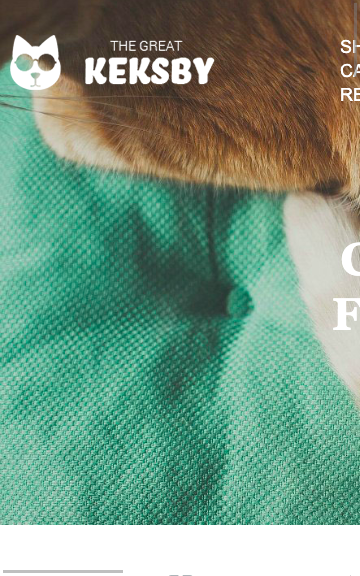
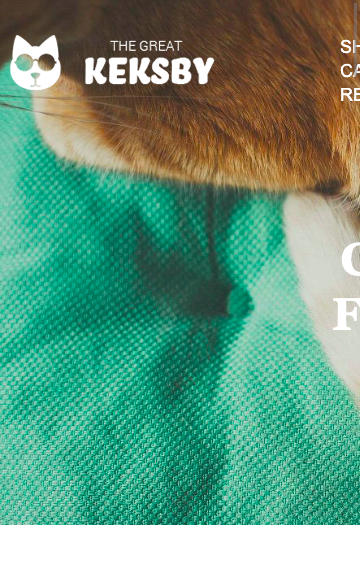
translation

diff --git a/catalog.html b/catalog.html
@@ -31,13 +31,13 @@
       My projects
      </h1>
   </div>
-  <p class="note"> <b>*</b> please note that filters, checkboxes and slider are not active and are presented to demonstrate my technology skills</p>
+  <p class="note"> <b>*</b> please note that filters, checkboxes and slider are not active and presented to demonstrate my technology skills</p>
   <div class="catalog-column container">
    <section class="filters-column">
-    <h2 class="visually-hidden">Фильтр</h2>
+    <h2 class="visually-hidden">Filter</h2>
     <form class="filters" action="/filters" method="post">
     <fieldset class="price">
-       <legend>Стоимость:</legend>
+       <legend>number of pages:</legend>
        <div class="range-filter">
         <div class="range-controls">
           <div class="scale">
@@ -47,12 +47,12 @@
           <div class="toggle toggle-max"></div>
         </div>
         <div class="price-controls">
-          <label class="min-price">от <input name="min-price" type="text" value="0"></label>
-          <label class="max-price">до <input name="max-price" type="text" value="15000"></label>
+          <label class="min-price">from <input name="min-price" type="text" value="1"></label>
+          <label class="max-price">to <input name="max-price" type="text" value="3"></label>
         </div>
        </div>
     </fieldset>
-    <fieldset class="grid">
+    <!-- <fieldset class="grid">
       <legend>сетка:</legend>
       <ul class="gird-list">
         <li class="filter-option"><input class="visually-hidden filter-input filter-input-radio" type="radio" name="grid" value="adaptive" id="filter-adaptive"  tabindex="0" checked>
@@ -65,34 +65,34 @@
           <label for="filter-rubber">Резиновая</label>
         </li>
       </ul>
-    </fieldset>
+    </fieldset> -->
     <fieldset class="features">
-     <legend>особенности</legend>
+     <legend>features:</legend>
      <ul class="features-list">
       <li class="filter-option">
         <input class="visually-hidden filter-input filter-input-checkbox" type="checkbox" name="silder" id="filter-slider"  tabindex="0" checked>
-        <label for="filter-slider" >Slider</label>
+        <label for="filter-slider">animated forms</label>
       </li>
       <li class="filter-option">
         <input class="visually-hidden filter-input filter-input-checkbox" type="checkbox" name="advantage-block" id="filter-advantage-block" tabindex="0">
-        <label for="filter-advantage-block">Блок преимуществ</label>
+        <label for="filter-advantage-block">slider</label>
       </li>
       <li class="filter-option">
         <input class="visually-hidden filter-input filter-input-checkbox" type="checkbox" name="news" id="filter-news"  tabindex="0" checked>
-        <label for="filter-news">News</label>
+        <label for="filter-news">responsive design</label>
       </li>
       <li class="filter-option">
         <input class="visually-hidden filter-input filter-input-checkbox" type="checkbox" name="gallery" id="filter-gallery" tabindex="0">
-        <label for="filter-gallery">Gallery</label>
+        <label for="filter-gallery">mobile</label>
       </li>
       <li class="filter-option">
        <input class="visually-hidden filter-input filter-input-checkbox" type="checkbox" name="basket" id="filter-basket"  disabled>
-       <label for="filter-basket">Basket</label>
+       <label for="filter-basket">others</label>
       </li>
      </ul>
     </fieldset>
  <button type="submit" class="filter-button button">
-  показать
+  show
 </button>
 </form>
 </section>
@@ -115,10 +115,10 @@
   </ul>
   <ul class="filter-sort filter-sort-arrows">
     <li class="filter-sort-item">
-      <a class="arrow arrow-down active" href="#">Убывание</a>
+      <a class="arrow arrow-down active" href="#">decrease</a>
     </li>
     <li class="filter-sort-item">
-      <a class="arrow arrow-up" href="#">Возрастание</a>
+      <a class="arrow arrow-up" href="#">increase</a>
     </li>
   </ul>
 </div>
@@ -129,44 +129,44 @@
     <svg xmlns="http://www.w3.org/2000/svg" width="360" height="40" viewBox="0 0 360 40"><path fill="#4D4D4D" d="M356 0H4C1.8 0 0 1.8 0 4v36h360V4c0-2.2-1.8-4-4-4zM22.991 27a7 7 0 1 1 0-14 7 7 0 0 1 0 14zm23.011 0a7 7 0 1 1 0-14 7 7 0 0 1 0 14zm23.011 0a7 7 0 1 1 0-14 7 7 0 0 1 0 14z"/></svg>
       <img src="img/sedona-1.png" height="576" width="360" alt="Sedona City">
     </a>
-    <!-- <div class="description">
-      <h3>Sedona
+    <div class="description">
+      <h3>Sedona City
       </h3>
       <p>
         Информационный сайт для туристов
       </p>
-      <a class="button-price button" href="#">9900 руб.</a>
-    </div> -->
+      <a class="button-price button" href="pages/index-sedona.html" target="_blank">show website</a>
+    </div>
   </li>
   <li class="catalog-item">
     <a href="pages/index-barbershop.html" target="_blank">
     <svg xmlns="http://www.w3.org/2000/svg" width="360" height="40" viewBox="0 0 360 40"><path fill="#4D4D4D" d="M356 0H4C1.8 0 0 1.8 0 4v36h360V4c0-2.2-1.8-4-4-4zM22.991 27a7 7 0 1 1 0-14 7 7 0 0 1 0 14zm23.011 0a7 7 0 1 1 0-14 7 7 0 0 1 0 14zm23.011 0a7 7 0 1 1 0-14 7 7 0 0 1 0 14z"/></svg>
       <img src="img/barbershop-1.png" height="576" width="360" alt="Barbershop Helsinki">
     </a>  
-    <!-- <div class="description">
-      <h3>Pink App
+    <div class="description">
+      <h3>Barbershop Helsinki
       </h3>
       <p>
         Продуктовый лендинг приложения для iOS и Android
       </p>
-      <a class="button-price button" href="#">9900 руб.</a>
-    </div> -->
+      <a class="button-price button" href="pages/index-barbershop.html" target="_blank">show website</a>
+    </div>
   </li>
   <li class="catalog-item">
     <a href="pages/index-pet.html" target="_blank">
    <svg xmlns="http://www.w3.org/2000/svg" width="360" height="40" viewBox="0 0 360 40"><path fill="#4D4D4D" d="M356 0H4C1.8 0 0 1.8 0 4v36h360V4c0-2.2-1.8-4-4-4zM22.991 27a7 7 0 1 1 0-14 7 7 0 0 1 0 14zm23.011 0a7 7 0 1 1 0-14 7 7 0 0 1 0 14zm23.011 0a7 7 0 1 1 0-14 7 7 0 0 1 0 14z"/></svg>
-    <img src="img/pet-1.png" height="576" width="360" alt="Pet Accessories Store">
+    <img src="img/pet-1.png" height="576" width="360" alt="Cat Accessories Store">
     </a>
-  <!-- <div class="description">
-    <h3>Barbershop
+  <div class="description">
+    <h3>Cat Accessories Store
     </h3>
     <p>
       Сайт салона красоты.
       <br>
       Для мужчин, да.
     </p>
-    <a class="button-price button" href="#">9900 руб.</a>
-  </div> -->
+    <a class="button-price button" href="pages/index-pet.html" target="_blank">show website</a>
+  </div>
 </li>
 <!-- <li class="catalog-item">
  <svg xmlns="http://www.w3.org/2000/svg" width="360" height="40" viewBox="0 0 360 40"><path fill="#4D4D4D" d="M356 0H4C1.8 0 0 1.8 0 4v36h360V4c0-2.2-1.8-4-4-4zM22.991 27a7 7 0 1 1 0-14 7 7 0 0 1 0 14zm23.011 0a7 7 0 1 1 0-14 7 7 0 0 1 0 14zm23.011 0a7 7 0 1 1 0-14 7 7 0 0 1 0 14z"/></svg>
@@ -209,7 +209,7 @@
   <li class="pages-number pages-number-current"><a href="#">1</a></li>
   <li class="pages-number"><a href="#">2</a></li>
   <li class="pages-number"><a href="#">3</a></li>
-  <li class="pages-number"><a href="#">Следующая</a></li>
+  <li class="pages-number"><a href="#">Next</a></li>
 </ul>
 </section>
 

diff --git a/pages/index-pet.html b/pages/index-pet.html
@@ -10,7 +10,7 @@
       <div class="container">
         <div class="header-top clearfix">
           <div class="header-logo">
-            <img src="img/logo.png" alt="The Great Keksby" width="205" height="55">
+            <img src="/img/logo.png" alt="The Great Keksby Logo" width="205" height="55">
           </div>
           <ul class="main-nav">
             <li><a href="#">shop</a></li>
@@ -56,7 +56,7 @@
             <i class="reference-source">source: <a target="_blank" href="https://en.wikipedia.beta.wmflabs.org/wiki/Cat">wikipedia</a></i>
           </dt>
           <dd>
-            <img src="img/article-1.jpg" alt="Окрас кошек и котов" width="100" height="100">
+            <img src="/img/article-1.jpg" alt="Окрас кошек и котов" width="100" height="100">
             <p>The color of the hair, skin and eyes of the cat is due to the presence of the pigment melanin in them. Melanin is located in the body of the hair in the form of microscopic granules, which vary in shape, size and quantity, which causes differences in color.</p>
           </dd>
 
@@ -65,7 +65,7 @@
             <i class="reference-source">source: <a target="_blank" href="https://www.ebay.com/sch/i.html?_nkw=wooden+cat+house&_sop=12">ebay.com</a></i>
           </dt>
           <dd>
-            <img src="img/article-2.jpg" alt="Кошкин дом" width="100" height="100">
+            <img src="/img/article-2.jpg" alt="Кошкин дом" width="100" height="100">
             <p>Does a cat need a cat house? Yes! You need a special Cat's House, arranged according to her taste with a ladder, with a clawcloth, with a closed.</p>
           </dd>
         </dl>
@@ -97,21 +97,21 @@
         <a class="btn" href="#" title="Посмотреть все товары">Catalog</a>
         <div class="popular-items clearfix">
           <div class="catalog-item">
-            <img src="img/glasses-1.jpg" alt="очки «Классика жанра»" width="306" height="206">
+            <img src="/img/glasses-1.jpg" alt="очки «Classics of the genre»" width="306" height="206">
             <h3>"Classic" glasses</h3>
             <b class="catalog-item-price">40 EUR</b>
             <a href="#" class="btn btn-info">Description</a>
             <a href="#" class="btn btn-buy">Buy</a>
           </div>
           <div class="catalog-item">
-            <img src="img/glasses-2.jpg" alt="очки «Жалюзи»" width="306" height="206">
+            <img src="/img/glasses-2.jpg" alt="очки «Jalousie»" width="306" height="206">
             <h3>"Jalousie" glasses</h3>
             <b class="catalog-item-price">50 EUR</b>
             <a href="#" class="btn btn-info">Description</a>
             <a href="#" class="btn btn-buy">Buy</a>
           </div>
           <div class="catalog-item">
-            <img src="img/glasses-3.jpg" alt="очки «Базилис»" width="306" height="206">
+            <img src="/img/glasses-3.jpg" alt="glasses «Modern»" width="306" height="206">
             <h3>"Modern" glasses</h3>
             <b class="catalog-item-price">60 EUR</b>
             <a href="#" class="btn btn-info">Description</a>
@@ -206,7 +206,7 @@
       <div class="container">
         <div class="footer-top clearfix">
           <div class="footer-logo">
-            <img src="img/logo.png" alt="The Great Keksby" width="205" height="55">
+            <img src="/img/logo.png" alt="The Great Keksby" width="205" height="55">
           </div>
           <a href="#" class="btn btn-quick-order">Order</a>
         </div>
@@ -224,7 +224,7 @@
             <h3>Reviews</h3>
             <ul>
               <li><a href="#">Show</a></li>
-              <li><a href="#">Leave</a></li>
+              <li><a href="#">All reviews</a></li>
             </ul>
           </div>
           <div class="footer-menu">
@@ -243,7 +243,7 @@
             <a class="social-btn" href="https://instagram.com" target="_blank">Instagram</a>
           </div>
           <div class="footer-copyright">
-            <span class="heart">Website by</span><a href="https://github.com/mouxez" target="_blank">  Maxim B.</a>
+            <span class="heart">Website by</span><a href="https://github.com/mouxez" target="_blank">  <span class="sighn">Maxim B.</span></a>
           </div>
         </div>
 

diff --git a/index.html b/index.html
@@ -27,7 +27,7 @@
   </nav>
 </header>
 <main>
-  <h1 class="visually-hidden">Дизайн-студия Nerds</h1>
+  <h1 class="visually-hidden">Facts</h1>
   <section class="slider">
     <div class="container">
       <h2 class="visually-hidden">Преимущества</h2>
@@ -160,13 +160,12 @@
 </section>
 <hr class="divide">
 <section class="map">
- <h2 class="visually-hidden">Как добраться</h2>
+ <h2 class="visually-hidden">Write to me</h2>
  <div class="container">
   <div class="contact-information">
-    <span>Nёrds design studio</span>
-    <p>191186, Санкт-Петербург,
-    ул. Б. Конюшенная, д. 19/8</p>
-    <p>тел. +7 (812) 275-75-75</p>
+    <span>Contact me</span>
+    <p>I will be happy to answer any questions</p>
+    <p>mob. +7 (916) 363-24-38</p>
     <a class="button button-write-us" href="#">Write to me</a>
   </div>
  </div>
@@ -174,7 +173,7 @@
   </iframe> -->
 </section>
 <p class="my-projects">
-  My projects can be found <a href="catalog.html">HERE</a>
+  Quick link to my projects is  <a href="catalog.html">HERE</>
 </p>
 </main>
 <footer class="main-footer">
@@ -204,21 +203,21 @@
  <form  class="form-field" action="https://echo.htmlacademy.ru" method="post">
 
   <div class="field field-name">
-   <label for="fullname">Ваше имя:</label>
-   <input type="text" id="fullname" name="user-name" value="" placeholder="Имя Фамилия" required>
+   <label for="fullname">Your name:</label>
+   <input type="text" id="fullname" name="user-name" value="" placeholder="Name" required>
  </div>
  <div class="field field-email">
-  <label for="email">Ваш e-mail:</label>
+  <label for="email">Your e-mail:</label>
   <input type="email" id="email" name="email" placeholder="email@example.com" required>
 </div>
 <div class="field field-letter">
-  <label for="letter">Текст письма:</label>
-  <textarea id="letter" name="text-of-letter" placeholder="В свободной форме" required></textarea>
+  <label for="letter">Text:</label>
+  <textarea id="letter" name="text-of-letter" placeholder="This form is for DEMO purposes only. Please use e-mail mouxez@gmail.com if you want to contact me." required></textarea>
 </div>
-<button type="submit" class="button">Отправить</button>
+<button type="submit" class="button">Send</button>
 
 </form>
-<button class="feedback-close" type="button">Закрыть</button>
+<button class="feedback-close" type="button">Close</button>
 </div>
 <script src="js/script.js">
 </script>

diff --git a/css/style.css b/css/style.css
@@ -58,7 +58,7 @@ input[type="radio"].visually-hidden
   font-weight:500;
   color:black;
   text-transform: uppercase;
-  background-color: #eeeeee;
+  /* background-color: #eeeeee; */
   min-height: 200px;
 
   -webkit-box-pack: justify;
@@ -180,7 +180,7 @@ input[type="radio"].visually-hidden
 .title
 {
   width:100%;
-  background-color:#eeeeee;
+  background-color:#ffffff;
 }
 .page-title
 {
@@ -194,7 +194,8 @@ input[type="radio"].visually-hidden
 {
   margin-top:-20px;
   position: relative;
-  background-color:#eeeeee;
+  background-color:#eeee99;
+  min-height: 420px;
 }
 .slider-controls
 {
@@ -961,7 +962,7 @@ input[type="radio"].visually-hidden
 
 .price-controls input
 {
-  width: 60px;
+  width: 40px;
   padding: 8px 10px;
   margin-left: 10px;
 
@@ -974,7 +975,6 @@ input[type="radio"].visually-hidden
   border-radius: 5px;
   background: #f1f1f1;
 }
-
 .max-price {
   text-align: right;
 }
@@ -1018,7 +1018,7 @@ input[type="radio"].visually-hidden
 }
 .filter-sort-words
 {
-  margin-left:224px;
+  margin-left:390px;
   margin-right:-20px;
 }
 .filter-sort-arrows .arrow

diff --git a/pages/index-barbershop.html b/pages/index-barbershop.html
@@ -13,7 +13,7 @@
   <header class="main-header">
     <nav class="main-navigation">
       <a class="index-header-logo">
-        <img src="img/index-logo.svg" width="368" height="153" alt="Логотип барбершопа 'Бородинский'">
+        <img src="/img/index-logo.svg" width="368" height="153" alt="Логотип барбершопа 'Бородинский'">
       </a>
       <div class="main-navigation-wrapper">
         <div class="container">
@@ -21,7 +21,7 @@
         <li><a href="#">About</a></li>
         <li><a href="#">News</a></li>
         <li><a href="#">Prices</a></li>
-        <li><a href="catalog.html">Shop</a></li>
+        <li><a href="/pages/catalog-barbershop.html">Shop</a></li>
         <li><a href="#">Contacts</a></li>
       </ul>
       <ul class="user-navigation">

diff --git a/pages/style-pet.css b/pages/style-pet.css
@@ -91,8 +91,13 @@ body {
   color: rgba(141, 116, 90, 0.3);
 }
 
+.sighn {
+  color: blue;;
+}
+
 .btn-quick-order {
   float: right;
+  color: #fff;
 }
 
 .promo {
